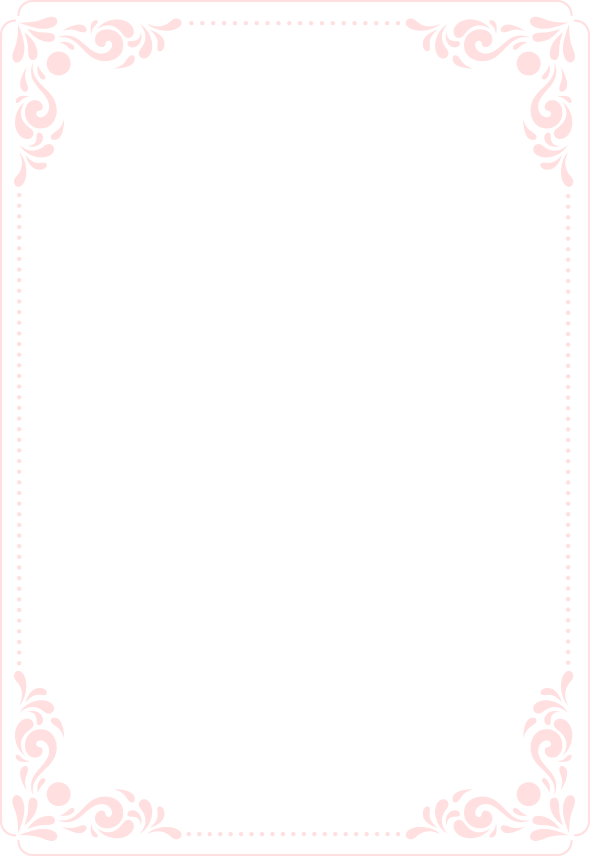
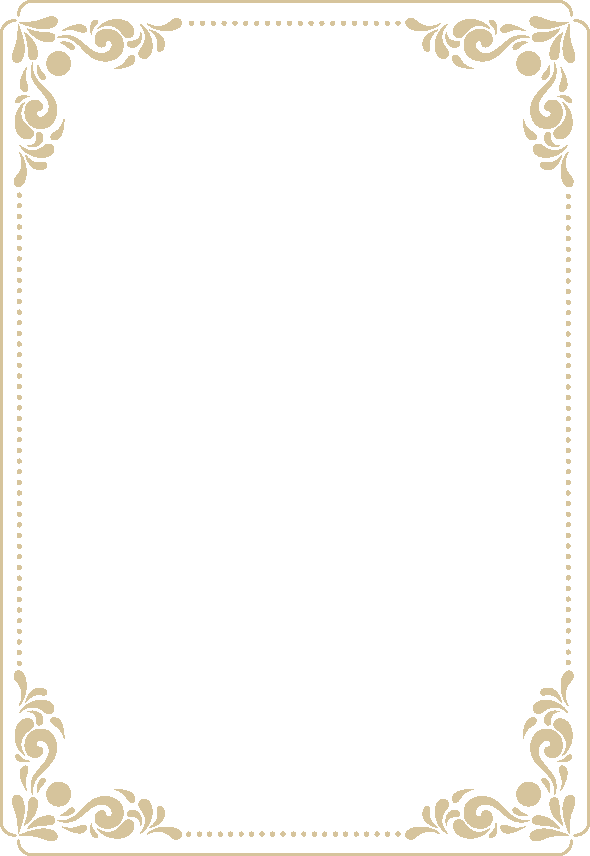
[Develop] changing images

Changed region(s): [[0.0, 0.0, 1.0, 1.0]]

diff --git a/index.html b/index.html
@@ -152,8 +152,8 @@
     <!--? Services Start -->
     <section class="pricing-card-area section-padding30 section-bg" data-background="assets/img/gallery/section_bg1.png" id="info">
         <div class="container">
-                <!-- Section Tittle -->
-                <div class="row d-flex justify-content-center">
+            <!-- Section Tittle -->
+            <div class="row d-flex justify-content-center">
                 <div class="col-lg-8">
                     <div class="section-tittle text-center mb-70">
                         <h2>Informazioni</h2>
@@ -185,26 +185,6 @@
                         </div>
                     </div>
                 </div>
-                <!-- <div class="col-xl-4 col-lg-4 col-md-6">
-                    <div class="single-card active text-center mb-30">
-                        <div class="card-top">
-                            <span class="flaticon-project"></span>
-                            <h4>The Reception</h4>
-                        </div>
-                        <div class="card-bottom">
-                            <ul>
-                                <li><i class="fas fa-calendar-alt"></i>April 20, 2016</li>
-                                <li><i class="far fa-clock"></i>5:30 PM</li>
-                                <li><i class="fas fa-map-marker-alt"></i>The Mayflower Hotel</li>
-                                <li>1127 Connecticut Avenue,NY</li>
-                                <li><i class="far fa-map"></i> Check out the map</li>
-                            </ul>
-                        </div>
-                        <div class="card-buttons mt-30">
-                            <a href="#" class="btn card-btn1">Get Started</a>
-                        </div>
-                    </div>
-                </div> -->
                 <div class="col-xl-6 col-lg-6 col-md-6">
                     <div class="single-card text-center mb-30">
                         <div class="card-top">
@@ -228,13 +208,7 @@
                     </div>
                 </div>
             </div>
-        </div>
-    </section>
-    <!-- Services Card End -->
-    <!--? Count Down Start -->
-    <div class="count-down-area">
-        <div class="container">
-            <div class="row justify-content-center">
+            <div class="row count-down-area justify-content-center">
                 <div class="col-lg-12 col-md-12">
                     <div class="count-down-wrapper" data-background="assets/img/gallery/section_bg2.png">
                         <div class="row justify-content-between">
@@ -267,7 +241,10 @@
                 </div>
             </div>
         </div>
-    </div>
+    </section>
+    <!-- Services Card End -->
+    <!--? Count Down Start -->
+    
     <!-- Count Down End -->
     <!--? Gallery Area Start -->
     <!-- <div class="gallery-area section-padding4">

diff --git a/assets/css/style.css b/assets/css/style.css
@@ -2517,7 +2517,7 @@ hr{
 }
 .count-down-area{
     position:relative;
-    top:-73px
+    /* top:-73px; */
 }
 .count-down-area .count-down-wrapper{
     background-repeat:no-repeat;
@@ -3001,10 +3001,10 @@ hr{
     color:#cfcfcf
 }
 .footer-bottom-area .footer-copy-right p i{
-    color:#cd0102
+    color:#d6c49c;
 }
 .footer-bottom-area .footer-copy-right p a{
-    color:#cd0102
+    color:#d6c49c;
 }
 .footer-bottom-area .footer-copy-right p a:hover{
     color:#fff
